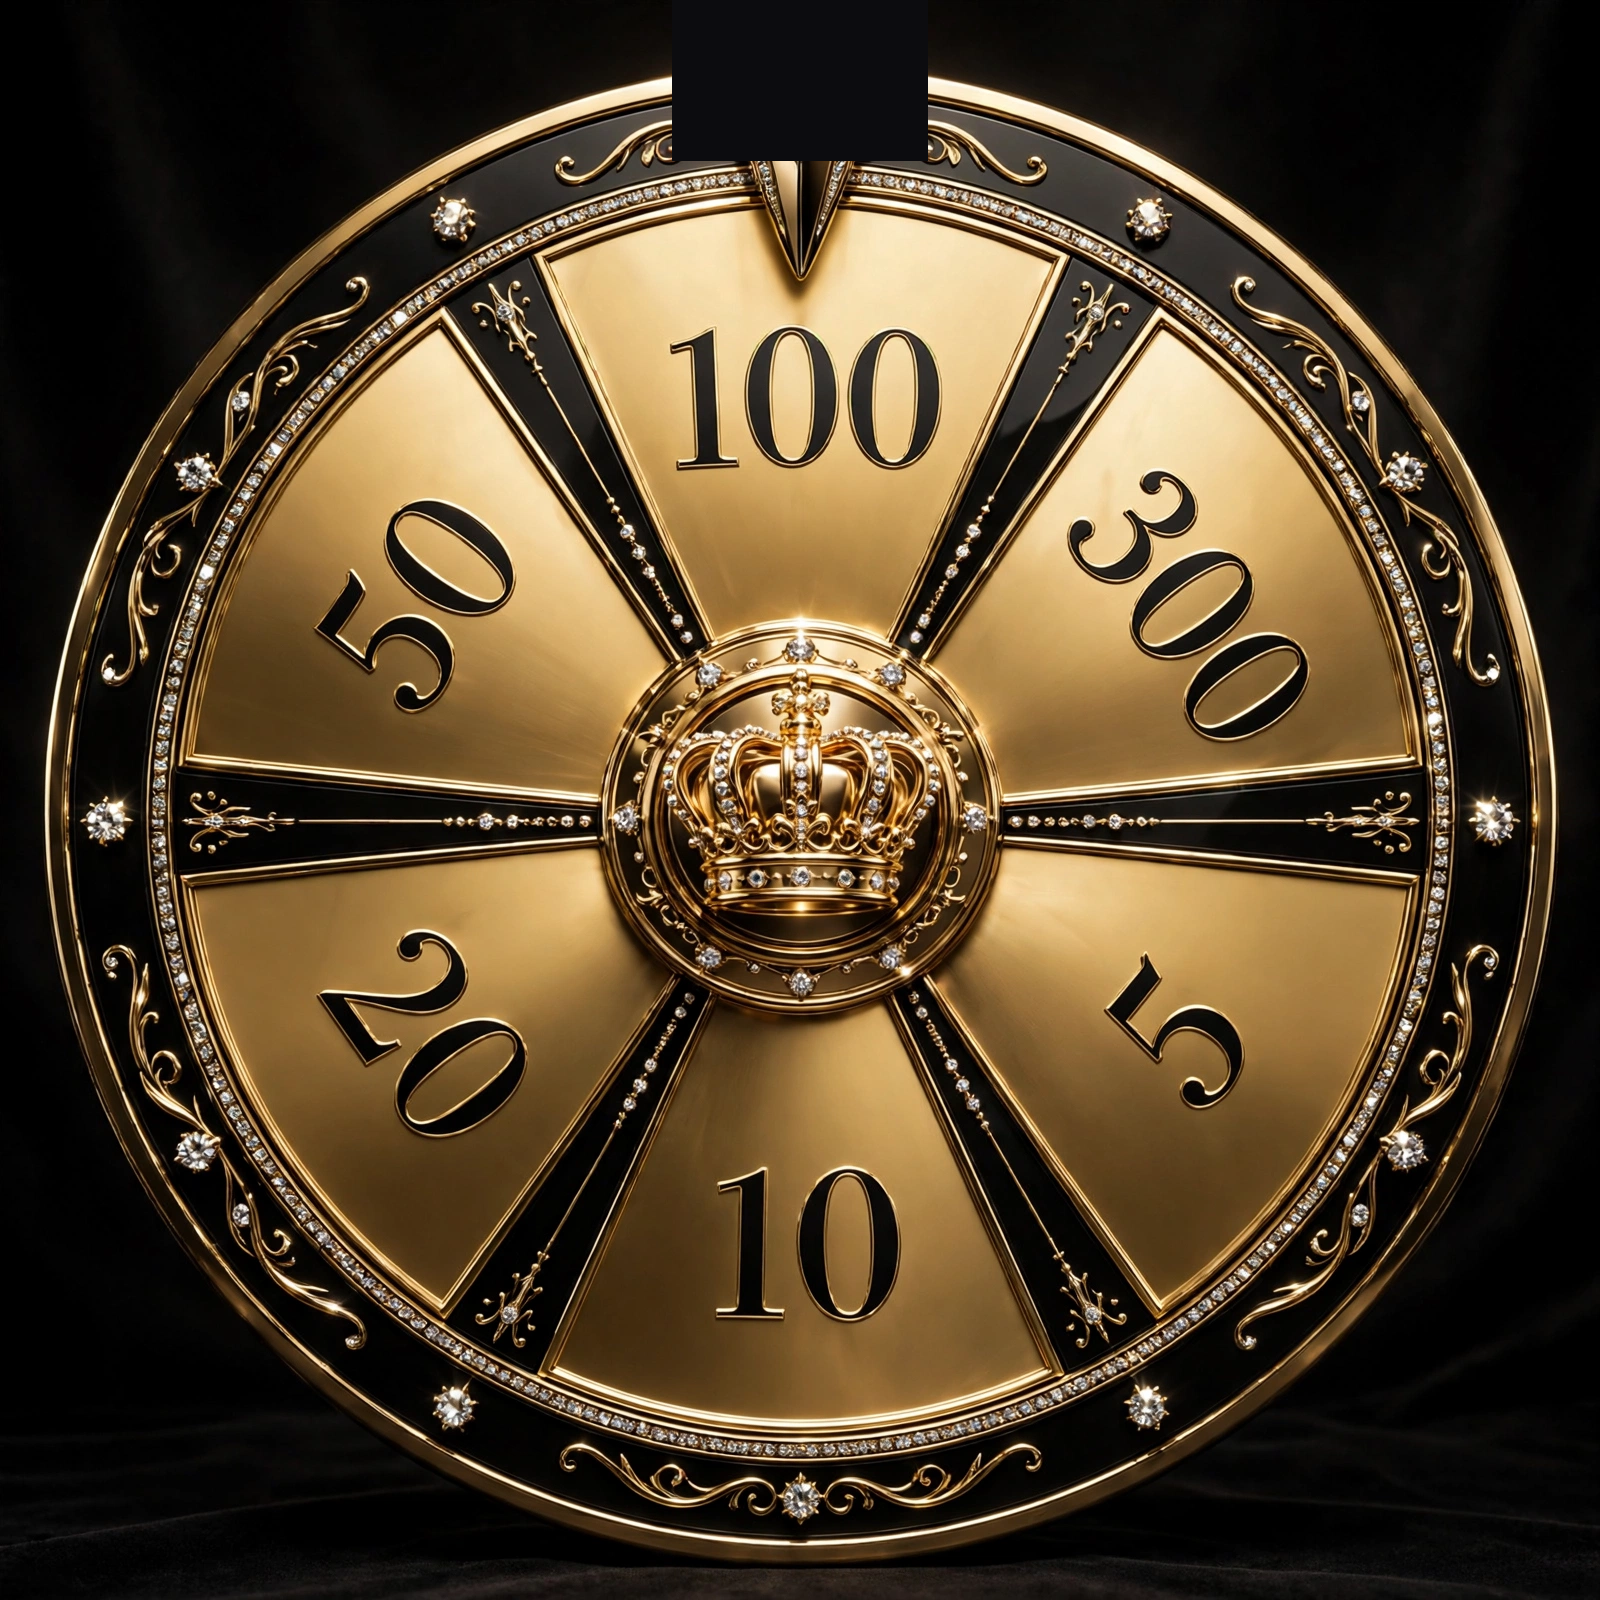
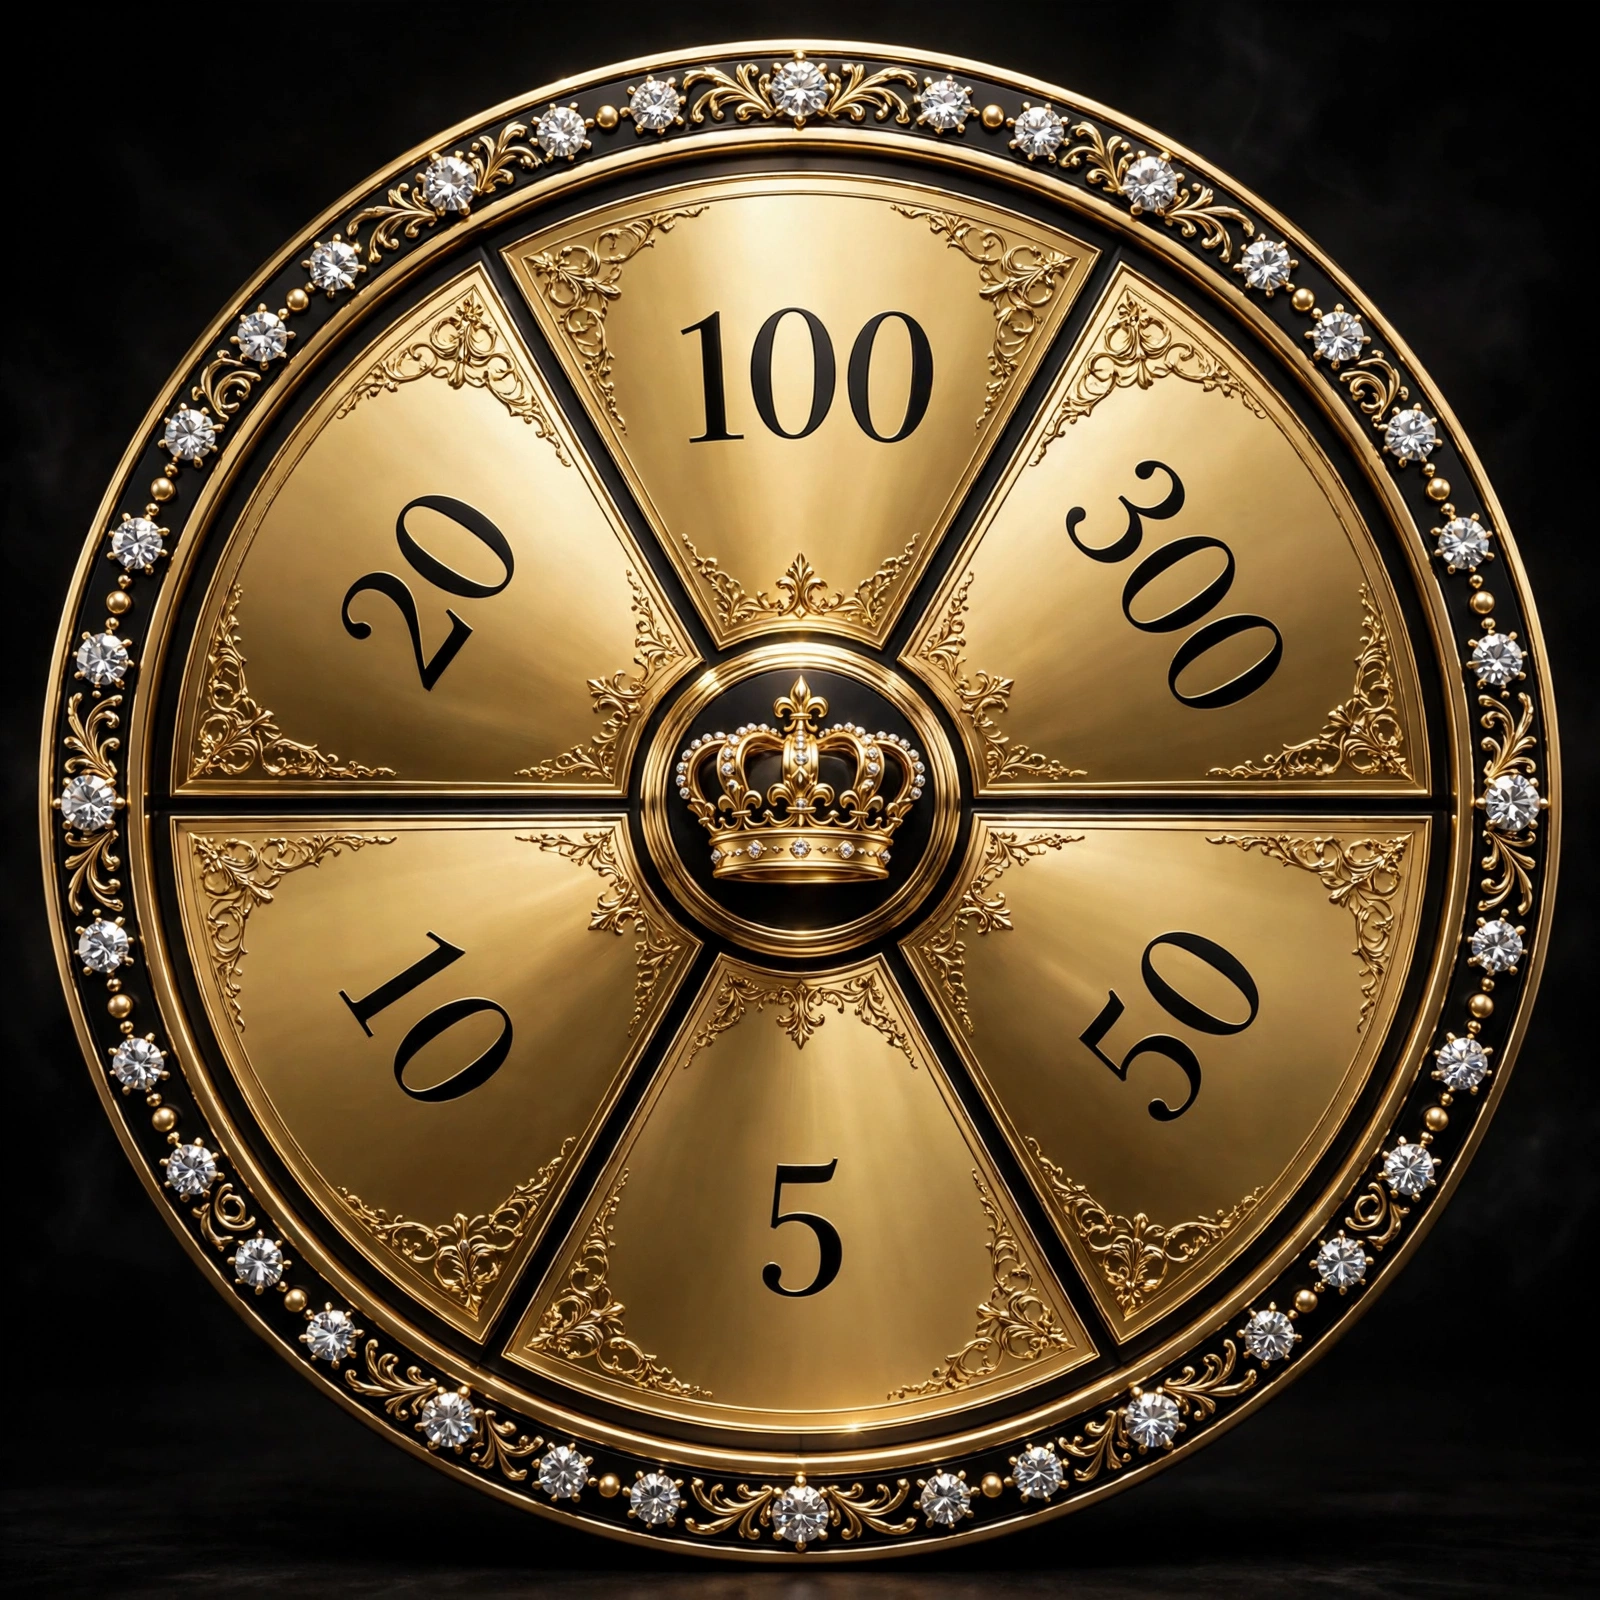
Clean regenerated wheels, no pointer artifacts

diff --git a/services/prize_wheel.py b/services/prize_wheel.py
@@ -11,8 +11,8 @@ SIZE = 280
 
 # Segment values in clockwise order from the top pointer, matching the
 # generated wheel images.
-DAILY_SEGMENTS = [1000, 250, 100, 50, 25, 10]
-VIP_SEGMENTS = [100, 300, 5, 10, 20, 50]
+DAILY_SEGMENTS = [1000, 10, 25, 50, 100, 250]
+VIP_SEGMENTS = [100, 300, 5, 50, 10, 20]
 
 
 def _font(size: int) -> ImageFont.FreeTypeFont:
